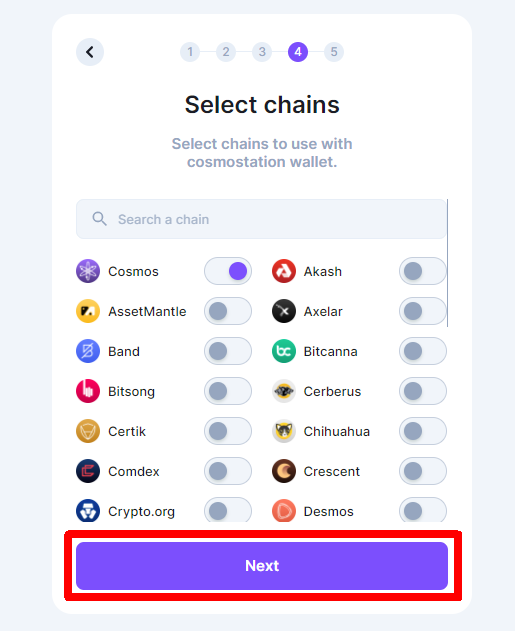
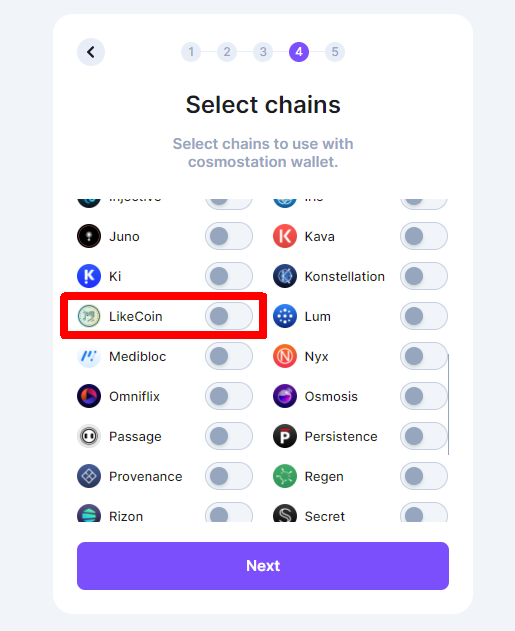
GitBook: [#4094] Cosmostation

diff --git a/general-guides/wallet/cosmostation/README.md b/general-guides/wallet/cosmostation/README.md
@@ -6,13 +6,27 @@ description: Multichain wallet supporting LikeCoin
 
 [Cosmostation](https://www.cosmostation.io/) is a non-custodial multi-chain cryptocurrency browser extension wallet for the Cosmos Interchain, Ethereum, ETH Layer 2, and EVM ecosystems. refer to the following guide for how to install Cosmostation.
 
-Note that the Cosmostation mobile app does not support LikeCoin yet.
+Note that the Cosmostation does not support registration of Liker ID yet.
 
-{% content-ref url="installation.md" %}
-[installation.md](installation.md)
+
+
+#### Please refer to the following articles to learn how to install Cosmostation on desktop:
+
+{% content-ref url="how-to-install-cosmostation-extension.md" %}
+[how-to-install-cosmostation-extension.md](how-to-install-cosmostation-extension.md)
 {% endcontent-ref %}
 
-You may also export seed words from Liker Land and import to Cosmostation.&#x20;
+#### Deposit, send, delegate, vote and view transaction details:
+
+{% content-ref url="deposit-and-send.md" %}
+[deposit-and-send.md](deposit-and-send.md)
+{% endcontent-ref %}
+
+{% content-ref url="dao.like.co.md" %}
+[dao.like.co.md](dao.like.co.md)
+{% endcontent-ref %}
+
+#### You may also export seed words from Liker Land and import to Cosmostation.&#x20;
 
 {% content-ref url="../../../user-guide/liker-id/export-seed-words.md" %}
 [export-seed-words.md](../../../user-guide/liker-id/export-seed-words.md)
@@ -21,63 +35,3 @@ You may also export seed words from Liker Land and import to Cosmostation.&#x20;
 {% content-ref url="import-account.md" %}
 [import-account.md](import-account.md)
 {% endcontent-ref %}
-
-## Use dao.like.co to deposit, send, delegate, vote and check LikeCoin transaction details
-
-Users will have to go to [dao.like.co](https://dao.like.co/) and connect the LikeCoin chain with Cosmostation. You may manage your LikeCoin with [dao.like.co](https://dao.like.co/) and Cosmostation together to deposit, send, delegate, [vote](../../governance/direct-vote.md) and check the LikeCoin transaction details.
-
-Go to [dao.like.co](https://dao.like.co/) and click "Cosmostation Browser Extension".
-
-![](<../../../.gitbook/assets/Comostation dao.like.co 1.png>)
-
-Then click "Confirm".
-
-![](<../../../.gitbook/assets/Comostation dao.like.co 2.png>)
-
-Click on "Confirm" again.
-
-![](<../../../.gitbook/assets/Comostation dao.like.co 3.png>)
-
-You can see your balance.
-
-![](<../../../.gitbook/assets/Comostation dao.like.co 4.png>)
-
-## Deposit or Send LikeCoin with Cosmostation
-
-### Step 1
-
-Click the wallet icon on Cosmostation.
-
-![](<../../../.gitbook/assets/Comostation Deposit Send 1.png>)
-
-### Step 2
-
-On custom chain click "LikeCoin"
-
-If your Cosmostation wallet does not show the LikeCoin chain, please [go to dao.like.co to connect to the LikeCoin chain for Cosmostation wallet first](./#use-dao.like.co-to-deposit-send-delegate-vote-and-check-likecoin-transaction-details).
-
-![](<../../../.gitbook/assets/Comostation Deposit Send 2.png>)
-
-### Step 3
-
-Your $LIKE balance displayed, click "Deposit".
-
-![](<../../../.gitbook/assets/Comostation Deposit Send 3.png>)
-
-### Step 4
-
-Your wallet address and QRCode appears. Scan the QRCode and deposit LikeCoin to your Cosmostation wallet with [LIKE pay](../../../developer/like-pay/). Suggest to deposit a small sum to try out first.
-
-![](<../../../.gitbook/assets/Comostation Deposit Send 4.png>)
-
-### Step 5
-
-On Step 3 select "Send". On the blank space fill in the wallet address of the receiver, Token is being selected automatically as LIKE with the available balance in the wallet. Please fill in the number of LikeCoin that need to be sent and reserve some LIKE for the [transaction fee](../transaction-fee.md). On Memo (Option) fill in the Tag/Memo which may be required by the receiver. Then click "Send".
-
-![](<../../../.gitbook/assets/Comostation Deposit Send 5.png>)
-
-### Step 6
-
-On the confirmation screen, check the details again then click "Confirm" and the LikeCoin is being sent.
-
-![](<../../../.gitbook/assets/Comostation Deposit Send 6.png>)

diff --git a/general-guides/wallet/cosmostation/deposit-and-send.md b/general-guides/wallet/cosmostation/deposit-and-send.md
@@ -1,0 +1,51 @@
+---
+description: Deposit and Send LikeCoin directly on Cosmostation
+---
+
+# Cosmostation: Deposit and Send LikeCoin
+
+## Deposit your LikeCoin to Cosmostation
+
+### Step 1
+
+Click LikeCoin on Cosmostation.
+
+<figure><img src="../../../.gitbook/assets/Comostation Deposit 1.png" alt=""><figcaption></figcaption></figure>
+
+### Step 2
+
+Click "Deposit".
+
+<figure><img src="../../../.gitbook/assets/Comostation Deposit 2.png" alt=""><figcaption></figcaption></figure>
+
+### Step 3
+
+Your wallet address and QRCode appears. Scan the QRCode and deposit LikeCoin to your Cosmostation wallet with [LIKE pay](../../../developer/like-pay/). Suggest to deposit a small sum to try out first.
+
+<figure><img src="../../../.gitbook/assets/Comostation Deposit 3.png" alt=""><figcaption></figcaption></figure>
+
+## **Send LikeCoin from** Cosmostation **to another wallet**
+
+### Step 1
+
+Click LikeCoin on Cosmostation.
+
+<figure><img src="../../../.gitbook/assets/Comostation Deposit 1.png" alt=""><figcaption></figcaption></figure>
+
+### Step 2
+
+Click "Send".
+
+<figure><img src="../../../.gitbook/assets/Comostation Send 1.png" alt=""><figcaption></figcaption></figure>
+
+### Step 3
+
+On the blank space fill in the wallet address of the receiver, Token is being selected automatically as LIKE with the available balance in the wallet. Please fill in the number of LikeCoin that need to be sent and reserve some LIKE for the [transaction fee](../transaction-fee.md). On Memo (Option) fill in the Tag/Memo which may be required by the receiver. Then click "Send".
+
+<figure><img src="../../../.gitbook/assets/Comostation Send 2.png" alt=""><figcaption></figcaption></figure>
+
+### Step 4
+
+On the confirmation screen, check the details again then click "Sign" and the LikeCoin is being sent.
+
+<figure><img src="../../../.gitbook/assets/Comostation Send 3.png" alt=""><figcaption></figcaption></figure>

diff --git a/SUMMARY.md b/SUMMARY.md
@@ -104,11 +104,13 @@
 * [Wallet](general-guides/wallet/README.md)
   * [Keplr](general-guides/wallet/keplr/README.md)
     * [How to install Keplr extension](general-guides/wallet/keplr/how-to-install-keplr-extension.md)
-    * [Deposit and Send](general-guides/wallet/keplr/deposit-and-send.md)
-    * [Send, delegate, vote and view transaction details](general-guides/wallet/keplr/dao.like.co.md)
+    * [Keplr: Deposit and Send LikeCoin](general-guides/wallet/keplr/keplr-deposit-and-send-likecoin.md)
+    * [Keplr: Deposit, send, delegate, vote and view transaction details](general-guides/wallet/keplr/dao.like.co.md)
     * [Import wallet into Keplr](general-guides/wallet/keplr/mport-account.md)
   * [Cosmostation](general-guides/wallet/cosmostation/README.md)
-    * [How to install Cosmostation extension](general-guides/wallet/cosmostation/installation.md)
+    * [How to install Cosmostation extension](general-guides/wallet/cosmostation/how-to-install-cosmostation-extension.md)
+    * [Cosmostation: Deposit and Send LikeCoin](general-guides/wallet/cosmostation/deposit-and-send.md)
+    * [Cosmostation: Deposit, send, delegate, vote and view transaction details](general-guides/wallet/cosmostation/dao.like.co.md)
     * [Import wallet into Cosmostation](general-guides/wallet/cosmostation/import-account.md)
   * [LIKE pay](general-guides/wallet/like-pay.md)
   * [Ledger](general-guides/wallet/hardware-wallet.md)

diff --git a/general-guides/wallet/cosmostation/how-to-install-cosmostation-extension.md b/general-guides/wallet/cosmostation/how-to-install-cosmostation-extension.md
@@ -1,8 +1,10 @@
 ---
-description: On desktop computer
+description: On Chromium Based Browsers
 ---
 
 # How to install Cosmostation extension
+
+### Step 1: Install Cosmostation
 
 Go to the [Wallet page of the Cosmostation website](https://www.cosmostation.io/wallet/#extension) to learn about browser extensions and click "Get Started".
 
@@ -15,6 +17,8 @@ Go to the Chrome Web Store and click "Add to Chrome" to install the [Cosmostatio
 Click "Add extension".
 
 ![](<../../../.gitbook/assets/Comostation 3.png>)
+
+### Step 2: Create new account
 
 After the installation, the browser will automatically jump to the registration page, click "I have read and agree to the Terms of use", and then click "Start" to continue.
 
@@ -36,9 +40,9 @@ Enter the mnemonic seed in order to verify and click "Next".
 
 ![](<../../../.gitbook/assets/Comostation 8.png>)
 
-On Select chains click "Next".
+On Select chains select "LikeCoin"and click "Next".
 
-![](<../../../.gitbook/assets/Comostation 9.png>)
+<figure><img src="../../../.gitbook/assets/Comostation 9.png" alt=""><figcaption></figcaption></figure>
 
 Enter your password twice, then click "Next".
 

diff --git a/general-guides/wallet/cosmostation/import-account.md b/general-guides/wallet/cosmostation/import-account.md
@@ -4,7 +4,9 @@ description: Import seed words and create wallet
 
 # Import wallet into Cosmostation
 
-## Method 1: Import the wallet after installing the Cosmostation extension
+## Extension Wallet
+
+### Import the wallet after installing the Cosmostation extension
 
 Select "Import Wallet".
 
@@ -18,9 +20,9 @@ Enter the account name and mnemonic seed and click "Next".
 
 ![](<../../../.gitbook/assets/Import Comostation 3.png>)
 
-On Select a chain Click "Next".
+On Select chains select "LikeCoin"and click "Next".
 
-![](<../../../.gitbook/assets/Import Comostation 4.png>)
+<figure><img src="../../../.gitbook/assets/Import Comostation 4.png" alt=""><figcaption></figcaption></figure>
 
 Enter your password twice, then click "Next".
 
@@ -32,7 +34,7 @@ Complete and click "Close".
 
 After logging in to Cosmostation, you can see the imported accounts.
 
-## Method 2: Import more than one wallet.
+### Import more than one wallet.
 
 If you need to import more than one wallet, open Cosmostation after importing the first wallet. Click the existing Wallet and click the gear.
 

diff --git a/general-guides/wallet/cosmostation/dao.like.co.md b/general-guides/wallet/cosmostation/dao.like.co.md
@@ -1,0 +1,26 @@
+---
+description: dao.like.co is essential for managing LikeCoin
+---
+
+# Cosmostation: Deposit, send, delegate, vote and view transaction details
+
+## Use dao.like.co to deposit, send, delegate, vote and check LikeCoin transaction details
+
+Users will have to go to [dao.like.co](https://dao.like.co/) and connect the LikeCoin chain with Cosmostation. You may manage your LikeCoin with [dao.like.co](https://dao.like.co/) and Cosmostation together to deposit, send, [delegate](../../stake/delegation-of-likecoin.md), [vote](../../governance/direct-vote.md) and check the LikeCoin transaction details.
+
+Go to [dao.like.co](https://dao.like.co/) and click "Cosmostation Browser Extension".
+
+![](<../../../.gitbook/assets/Comostation dao.like.co 1.png>)
+
+Then click "Confirm".
+
+![](<../../../.gitbook/assets/Comostation dao.like.co 2.png>)
+
+Click on "Confirm" again.
+
+![](<../../../.gitbook/assets/Comostation dao.like.co 3.png>)
+
+You can see your balance.
+
+![](<../../../.gitbook/assets/Comostation dao.like.co 4.png>)
+

diff --git a/general-guides/wallet/block-explorer/mintscan.md b/general-guides/wallet/block-explorer/mintscan.md
@@ -6,4 +6,4 @@ Mintscan is a Cosmos block explorer for exchanges and everyday users, provide tr
 
 On Keplr / Cosmostation / Liker Land web, copy the [wallet address](../wallet-address.md) and paste it in the search field of the [Mintscan](https://www.mintscan.io/likecoin) website.
 
-<figure><img src="../../../.gitbook/assets/Mintscan (2).png" alt=""><figcaption></figcaption></figure>
+<figure><img src="../../../.gitbook/assets/Mintscan (1).png" alt=""><figcaption></figcaption></figure>

diff --git a/general-guides/wallet/keplr/README.md b/general-guides/wallet/keplr/README.md
@@ -18,8 +18,8 @@ Note that Keplr mobile app does not support LikeCoin yet.
 
 #### Deposit, send, delegate, vote and view transaction details:
 
-{% content-ref url="deposit-and-send.md" %}
-[deposit-and-send.md](deposit-and-send.md)
+{% content-ref url="keplr-deposit-and-send-likecoin.md" %}
+[keplr-deposit-and-send-likecoin.md](keplr-deposit-and-send-likecoin.md)
 {% endcontent-ref %}
 
 {% content-ref url="dao.like.co.md" %}

diff --git a/general-guides/wallet/keplr/how-to-install-keplr-extension.md b/general-guides/wallet/keplr/how-to-install-keplr-extension.md
@@ -1,5 +1,5 @@
 ---
-description: On desktop computer
+description: On Chromium Based Browsers
 ---
 
 # How to install Keplr extension
